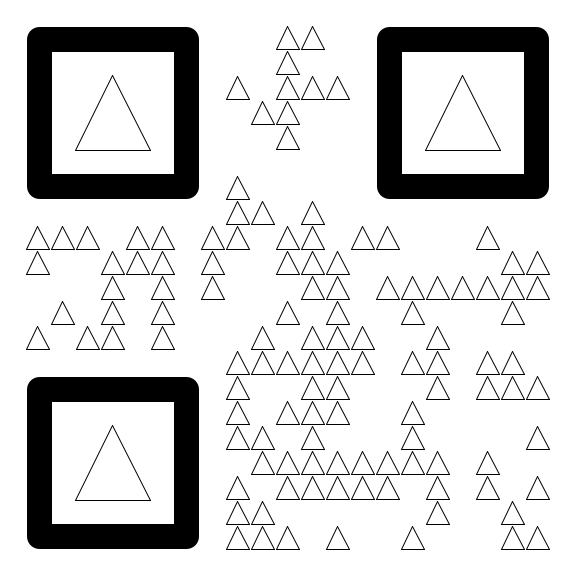
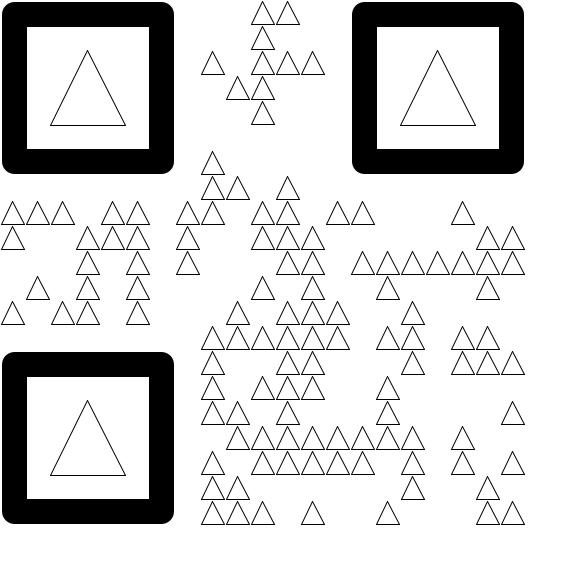
feat(ecl-auto): mid-work commit

diff --git a/src/commonMain/kotlin/qrcode/QRCode.kt b/src/commonMain/kotlin/qrcode/QRCode.kt
@@ -17,6 +17,7 @@ import qrcode.raw.ErrorCorrectionLevel
 import qrcode.raw.MaskPattern
 import qrcode.raw.QRCodeProcessor
 import qrcode.raw.QRCodeProcessor.Companion.DEFAULT_CELL_SIZE
+import qrcode.raw.QRCodeProcessor.Companion.DEFAULT_MARGIN
 import qrcode.raw.QRCodeRawData
 import qrcode.render.QRCodeGraphics
 import qrcode.render.QRCodeGraphicsFactory
@@ -144,10 +145,10 @@ class QRCode @JvmOverloads constructor(
     var graphics: QRCodeGraphics = graphicsFactory.newGraphicsSquare(computedSize)
         private set
 
-    private fun draw(xOffset: Int, yOffset: Int, rawData: QRCodeRawData, canvas: QRCodeGraphics): QRCodeGraphics =
+    private fun draw(xOffset: Int, yOffset: Int, rawData: QRCodeRawData, canvas: QRCodeGraphics, margin: Int = squareSize): QRCodeGraphics =
         qrCodeProcessor.renderShaded(
             cellSize = squareSize,
-            margin = squareSize,
+            margin = margin,
             rawData = rawData,
             qrCodeGraphics = canvas,
         ) { x, y, currentSquare, _ ->
@@ -156,8 +157,8 @@ class QRCode @JvmOverloads constructor(
             if (!actualSquare.rendered) {
                 when (currentSquare.squareInfo.type) {
                     POSITION_PROBE, POSITION_ADJUST -> shapeFn.renderControlSquare(
-                        xOffset,
-                        yOffset,
+                        xOffset + margin,
+                        yOffset + margin,
                         colorFn,
                         actualSquare,
                         canvas,
@@ -174,9 +175,9 @@ class QRCode @JvmOverloads constructor(
     /**
      * Computes a [squareSize] to make sure the QRCode can fit into an area of width by height pixels
      */
-    fun fitIntoArea(width: Int, height: Int): QRCode {
+    fun fitIntoArea(width: Int, height: Int, margin: Int = DEFAULT_MARGIN): QRCode {
         val reference = min(width, height)
-        squareSize = floor(reference / (rawData.size + 2.0)).toInt()
+        squareSize = floor((reference - margin) / rawData.size.toDouble()).toInt()
         shapeFn.resize(squareSize)
         computedSize = qrCodeProcessor.computeImageSize(squareSize, squareSize, rawData)
         graphics = graphicsFactory.newGraphicsSquare(squareSize)
@@ -186,11 +187,11 @@ class QRCode @JvmOverloads constructor(
 
     /** Executes all the drawing of the QRCode and returns the [QRCodeGraphics] of the complete QRCode. */
     @JvmOverloads
-    fun render(qrCodeGraphics: QRCodeGraphics = graphics, xOffset: Int = 0, yOffset: Int = 0): QRCodeGraphics {
+    fun render(qrCodeGraphics: QRCodeGraphics = graphics, xOffset: Int = 0, yOffset: Int = 0, margin: Int = DEFAULT_MARGIN): QRCodeGraphics {
         colorFn.beforeRender(this, qrCodeGraphics)
         shapeFn.beforeRender(this, qrCodeGraphics)
         doBefore(qrCodeGraphics, xOffset, yOffset)
-        return draw(xOffset, yOffset, rawData, qrCodeGraphics).also { doAfter(it, xOffset, yOffset) }
+        return draw(xOffset, yOffset, rawData, qrCodeGraphics, margin).also { doAfter(it, xOffset, yOffset) }
     }
 
     /** Calls [render] and then returns the bytes of a [format] (default = PNG) render of the QRCode. */

diff --git a/src/androidMain/kotlin/qrcode/render/extensions/AndroidComposeExtensions.kt b/src/androidMain/kotlin/qrcode/render/extensions/AndroidComposeExtensions.kt
@@ -39,13 +39,17 @@ import qrcode.render.graphics.DrawScopeGraphics
  *
  * Original code: https://github.com/g0dkar/qrcode-kotlin/issues/141#issuecomment-2722041216
  *
+ * @param qrCode The [QRCode] that will be drawn into the [DrawScope].
+ * @param offsetTopLeft The [Offset] of the top-left corner where the QRCode will be drawn. Defaults to [Offset.Zero].
+ * @param sizeToFitInto The area in which to fit the QRCode. Defaults to the `size` of the [DrawScope].
+ *
  */
 fun DrawScope.drawQRCode(
     qrCode: QRCode,
     offsetTopLeft: Offset = Offset.Zero,
-    size: Size = this.size,
+    sizeToFitInto: Size = this.size,
 ) {
-    qrCode.fitIntoArea(size.width.toInt(), size.height.toInt())
+    qrCode.fitIntoArea(sizeToFitInto.width.toInt(), sizeToFitInto.height.toInt())
 
     val qrCodeGraphics = qrCode.graphics
     val previousDrawingInterface = qrCodeGraphics.drawingInterface

diff --git a/src/commonMain/kotlin/qrcode/shape/DefaultShapeFunction.kt b/src/commonMain/kotlin/qrcode/shape/DefaultShapeFunction.kt
@@ -81,8 +81,8 @@ open class DefaultShapeFunction(
 
                 // Draw outer square
                 drawRect(
-                    startX + squareSize + innerSpacing,
-                    startY + squareSize + innerSpacing,
+                    startX + innerSpacing,
+                    startY + innerSpacing,
                     size - innerSpacing * 2,
                     size - innerSpacing * 2,
                     fg,
@@ -92,8 +92,8 @@ open class DefaultShapeFunction(
 
                 // Draw inner square
                 fillRect(
-                    startX + squareSize + squareSize * 2,
-                    startY + squareSize + squareSize * 2,
+                    startX + squareSize * 2,
+                    startY + squareSize * 2,
                     size - squareSize * 4,
                     size - squareSize * 4,
                     fg,

diff --git a/src/commonMain/kotlin/qrcode/raw/QRCodeProcessor.kt b/src/commonMain/kotlin/qrcode/raw/QRCodeProcessor.kt
@@ -139,7 +139,7 @@ class QRCodeProcessor @JvmOverloads constructor(
     @JsName("computeImageSizeFromRawData")
     fun computeImageSize(
         cellSize: Int = DEFAULT_CELL_SIZE,
-        margin: Int = 0,
+        margin: Int = DEFAULT_MARGIN,
         rawData: QRCodeRawData = encode(),
     ): Int = computeImageSize(cellSize, margin, rawData.size)
 
@@ -190,8 +190,6 @@ class QRCodeProcessor @JvmOverloads constructor(
 
     /**
      * Renders a QR Code image based on its [computed data][encode].
-     *
-     * _Tip: for the "traditional look-and-feel" QR Code, set [margin] equal to [cellSize]._
      *
      * @param cellSize The size **in pixels** of each square (cell) in the QR Code. Defaults to `25`.
      * @param margin Amount of space **in pixels** to add as a margin around the rendered QR Code. Defaults to `0`.

diff --git a/src/commonMain/kotlin/qrcode/internals/QRCodeSetup.kt b/src/commonMain/kotlin/qrcode/internals/QRCodeSetup.kt
@@ -147,8 +147,8 @@ internal object QRCodeSetup {
                     dark = false,
                     row = row - 1,
                     col = col - 1,
-                    rowSize = 5,
-                    colSize = 5,
+                    rowSize = 6,
+                    colSize = 6,
                     squareInfo = QRCodeSquareInfo(POSITION_ADJUST, UNKNOWN),
                     moduleSize = modules.size
                 )
